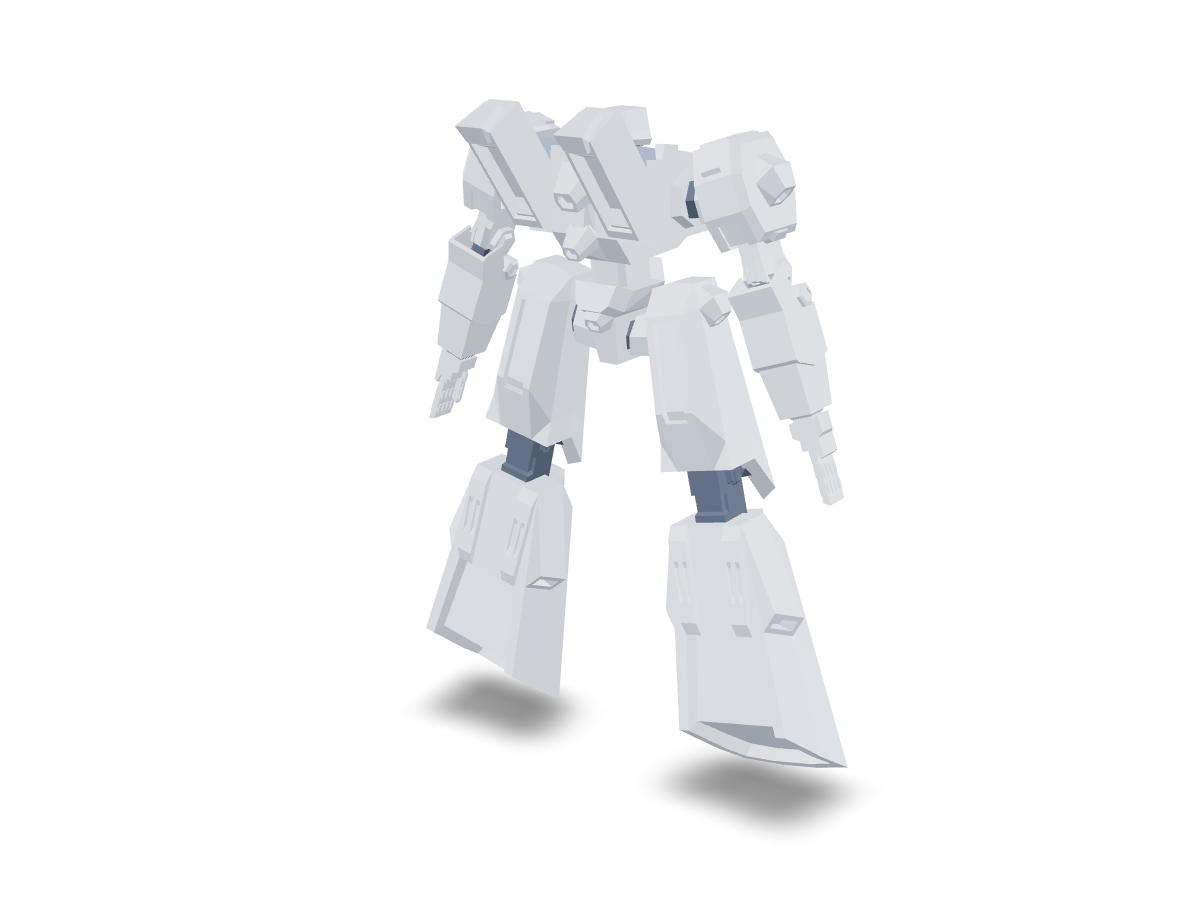
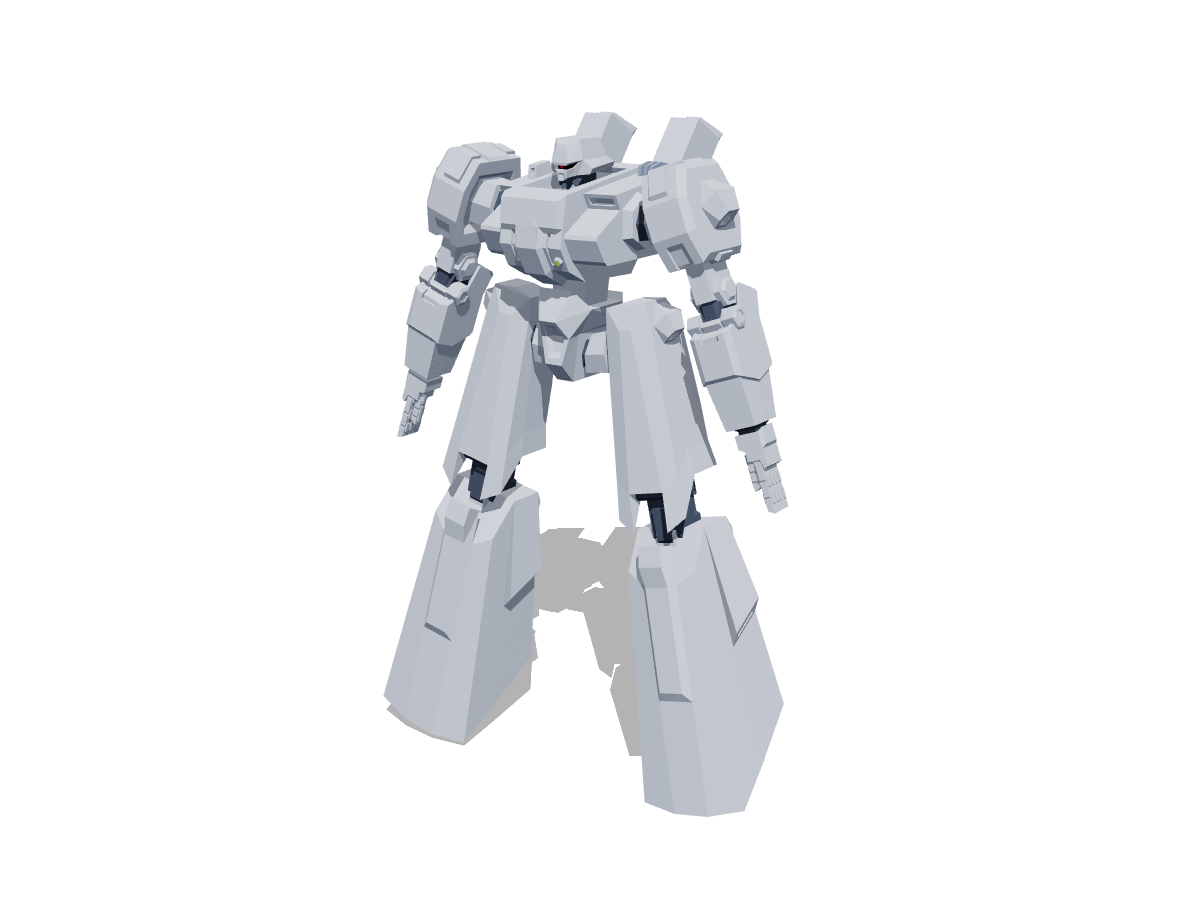
Flip Uwovacht to face forward, wire Formspree endpoint, drop filler models
- Rotate Uwovacht 180deg (hero orientation attr + per-model 'orient' field applied
  in the lightbox); re-render the gallery thumbnail front-facing
- Set CONFIG.formEndpoint to the real Formspree form; neutral success message
- Reduce gallery to the single real model; hide the tag filter with only one category

Changed region(s): [[0.3083, 0.0933, 0.7092, 0.9333]]

diff --git a/js/main.js b/js/main.js
@@ -5,7 +5,7 @@ const CONFIG = {
   // Contact-form POST target. Option A (recommended): a Formspree/Basin/Formsubmit
   // endpoint (spam-filtered). Option B: a Discord webhook — see CLAUDE.md for the
   // small change to the fetch body that requires.
-  formEndpoint: "https://formspree.io/f/YOUR_FORM_ID",
+  formEndpoint: "https://formspree.io/f/xwvgqjnb",
   // Your Discord invite or profile link. Wired into every [data-discord] element.
   discordUrl:   "https://discord.com/"
 };
@@ -83,10 +83,11 @@ if (gallery && Array.isArray(window.MODELS)){
     return c;
   });
 
-  /* ---- tag filter chips (derived from the model tags) ---- */
+  /* ---- tag filter chips (derived from the model tags; shown only with 2+ tags) ---- */
   const filters = document.getElementById("filters");
-  if (filters && cards.length){
-    const tags = ["All", ...Array.from(new Set(window.MODELS.map(m => m.tag)))];
+  const uniqueTags = Array.from(new Set(window.MODELS.map(m => m.tag)));
+  if (filters && cards.length && uniqueTags.length >= 2){
+    const tags = ["All", ...uniqueTags];
     tags.forEach(tag => {
       const chip = document.createElement("button");
       chip.type = "button";
@@ -105,6 +106,8 @@ if (gallery && Array.isArray(window.MODELS)){
       });
       filters.appendChild(chip);
     });
+  } else if (filters){
+    filters.hidden = true;                   // nothing to filter with a single category
   }
 }
 
@@ -125,6 +128,7 @@ function openLightbox(index){
   mv.setAttribute("src", model.glb);
   mv.setAttribute("alt", model.name + " — 3D model");
   mv.setAttribute("tabindex", "0");          // keep it in the focus-trap tab order
+  if (model.orient) mv.setAttribute("orientation", model.orient);
   mv.setAttribute("camera-controls", "");
   if (!reduceMotion) mv.setAttribute("auto-rotate", "");
   mv.setAttribute("shadow-intensity", "0.9");
@@ -202,7 +206,7 @@ if (form){
       }
       if (!res.ok) throw new Error("Request failed");
       form.reset();
-      formMsg.textContent = "Request sent — I'll get back to you on Discord.";
+      formMsg.textContent = "Request sent — I'll get back to you soon.";
       formMsg.classList.add("ok");
     } catch (err) {
       formMsg.innerHTML = 'Could not send right now — reach me directly on ' +

diff --git a/data/models.js b/data/models.js
@@ -1,16 +1,9 @@
 /* Gallery + lightbox data. One object per model.
-   thumb : render PNG in assets/renders/  (optional; falls back to a text placeholder)
-   glb   : exported .glb in assets/models/ (Embed Textures ON, keep <2MB)
-   tag   : category label — also drives the gallery filter chips.
-
-   The first entry is a real piece. The rest are demo placeholders that point at a
-   sample GLB so the lightbox still works — replace them as real models come in. */
+   thumb  : render PNG in assets/renders/  (optional; falls back to a text placeholder)
+   glb    : exported .glb in assets/models/ (Embed Textures ON, keep <2MB)
+   tag    : category label — also drives the gallery filter chips (shown when 2+ tags)
+   orient : optional model-viewer "roll pitch yaw" to fix a model's facing, e.g.
+            "0deg 0deg 180deg" turns it 180° so its front faces the camera. */
 window.MODELS = [
-  { name: "Uwovacht",       tag: "Entity",   thumb: "assets/renders/uwovacht.png",  glb: "assets/models/uwovacht.glb" },
-  { name: "Voidwarden",     tag: "Animated", thumb: "assets/renders/voidwarden.png", glb: "https://modelviewer.dev/shared-assets/models/Astronaut.glb" },
-  { name: "Greatsword Set", tag: "Weapon",   thumb: "assets/renders/greatsword.png", glb: "https://modelviewer.dev/shared-assets/models/Astronaut.glb" },
-  { name: "Skiff",          tag: "Vehicle",  thumb: "assets/renders/skiff.png",      glb: "https://modelviewer.dev/shared-assets/models/Astronaut.glb" },
-  { name: "Market NPC",     tag: "Entity",   thumb: "assets/renders/npc.png",        glb: "https://modelviewer.dev/shared-assets/models/Astronaut.glb" },
-  { name: "Rune Crate",     tag: "Cosmetic", thumb: "assets/renders/crate.png",      glb: "https://modelviewer.dev/shared-assets/models/Astronaut.glb" },
-  { name: "Tavern Pack",    tag: "Furniture",thumb: "assets/renders/tavern.png",     glb: "https://modelviewer.dev/shared-assets/models/Astronaut.glb" }
+  { name: "Uwovacht", tag: "Entity", thumb: "assets/renders/uwovacht.png", glb: "assets/models/uwovacht.glb", orient: "0deg 0deg 180deg" }
 ];

diff --git a/index.html b/index.html
@@ -74,6 +74,7 @@
       <model-viewer
         data-src="assets/models/uwovacht.glb"
         alt="Rotatable 3D preview of a featured Blockbench model"
+        orientation="0deg 0deg 180deg"
         camera-controls auto-rotate auto-rotate-delay="600"
         rotation-per-second="18deg" shadow-intensity="0.9" exposure="1.05"
         interaction-prompt="none">
